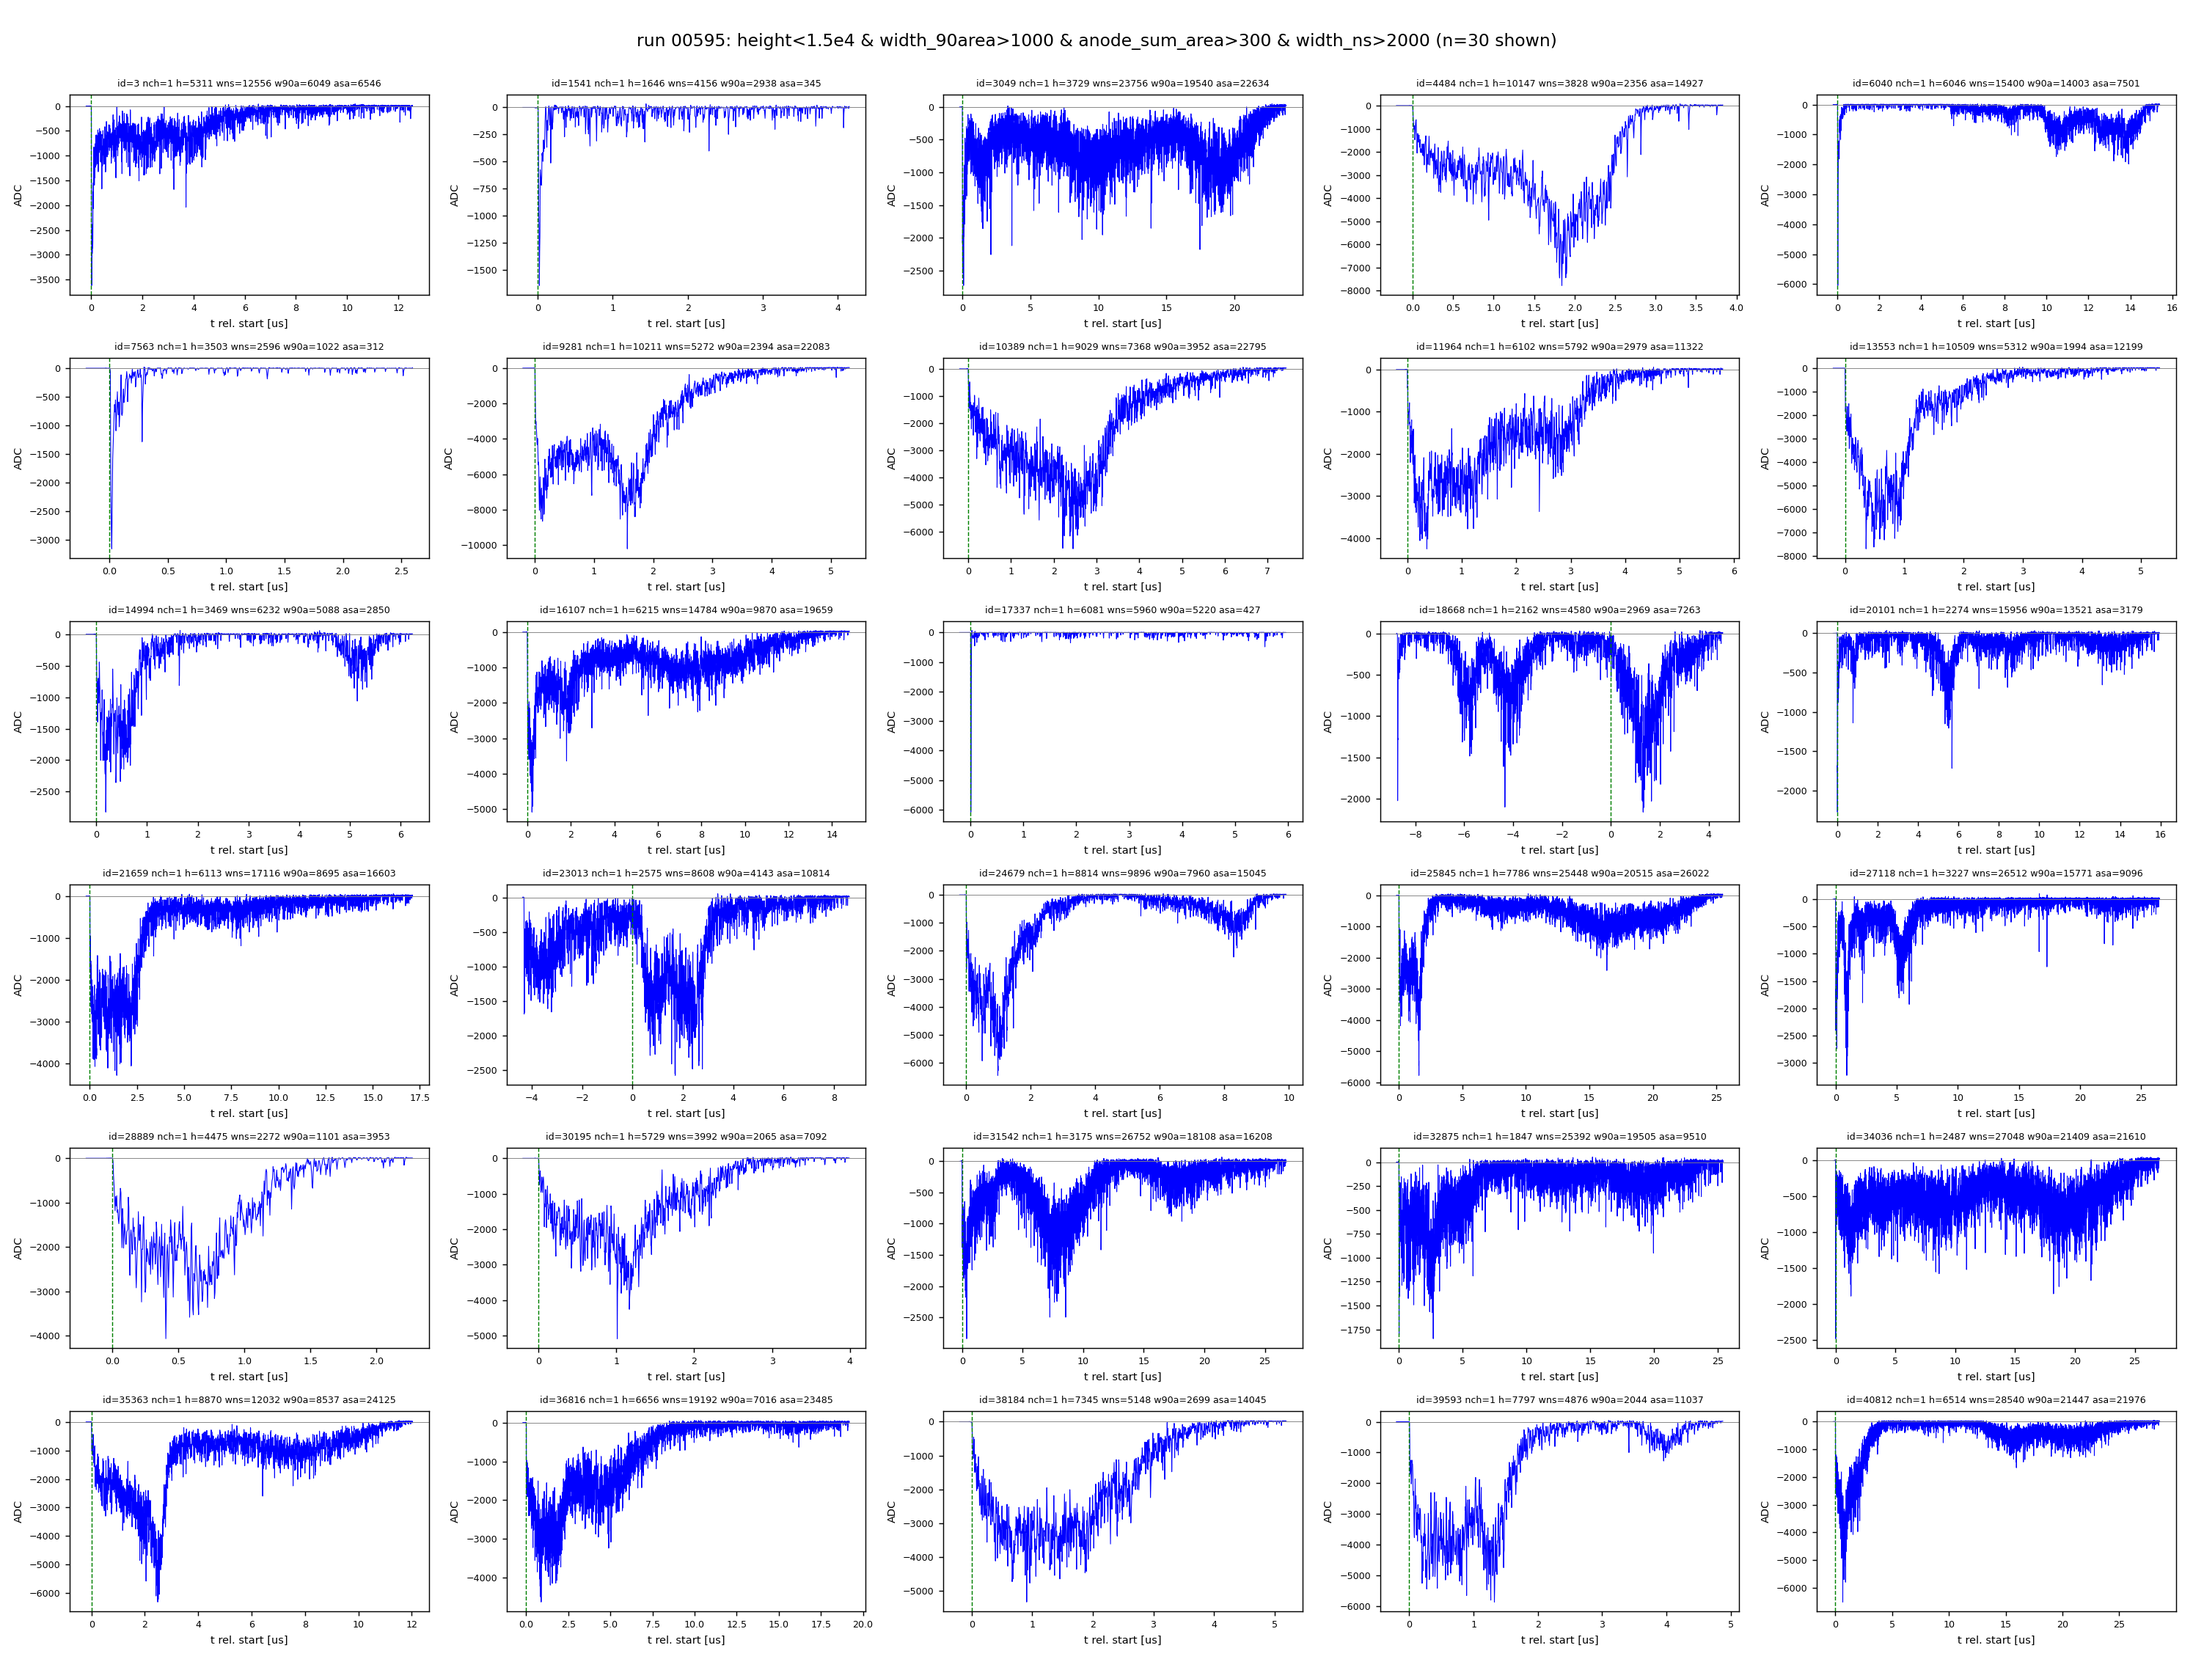
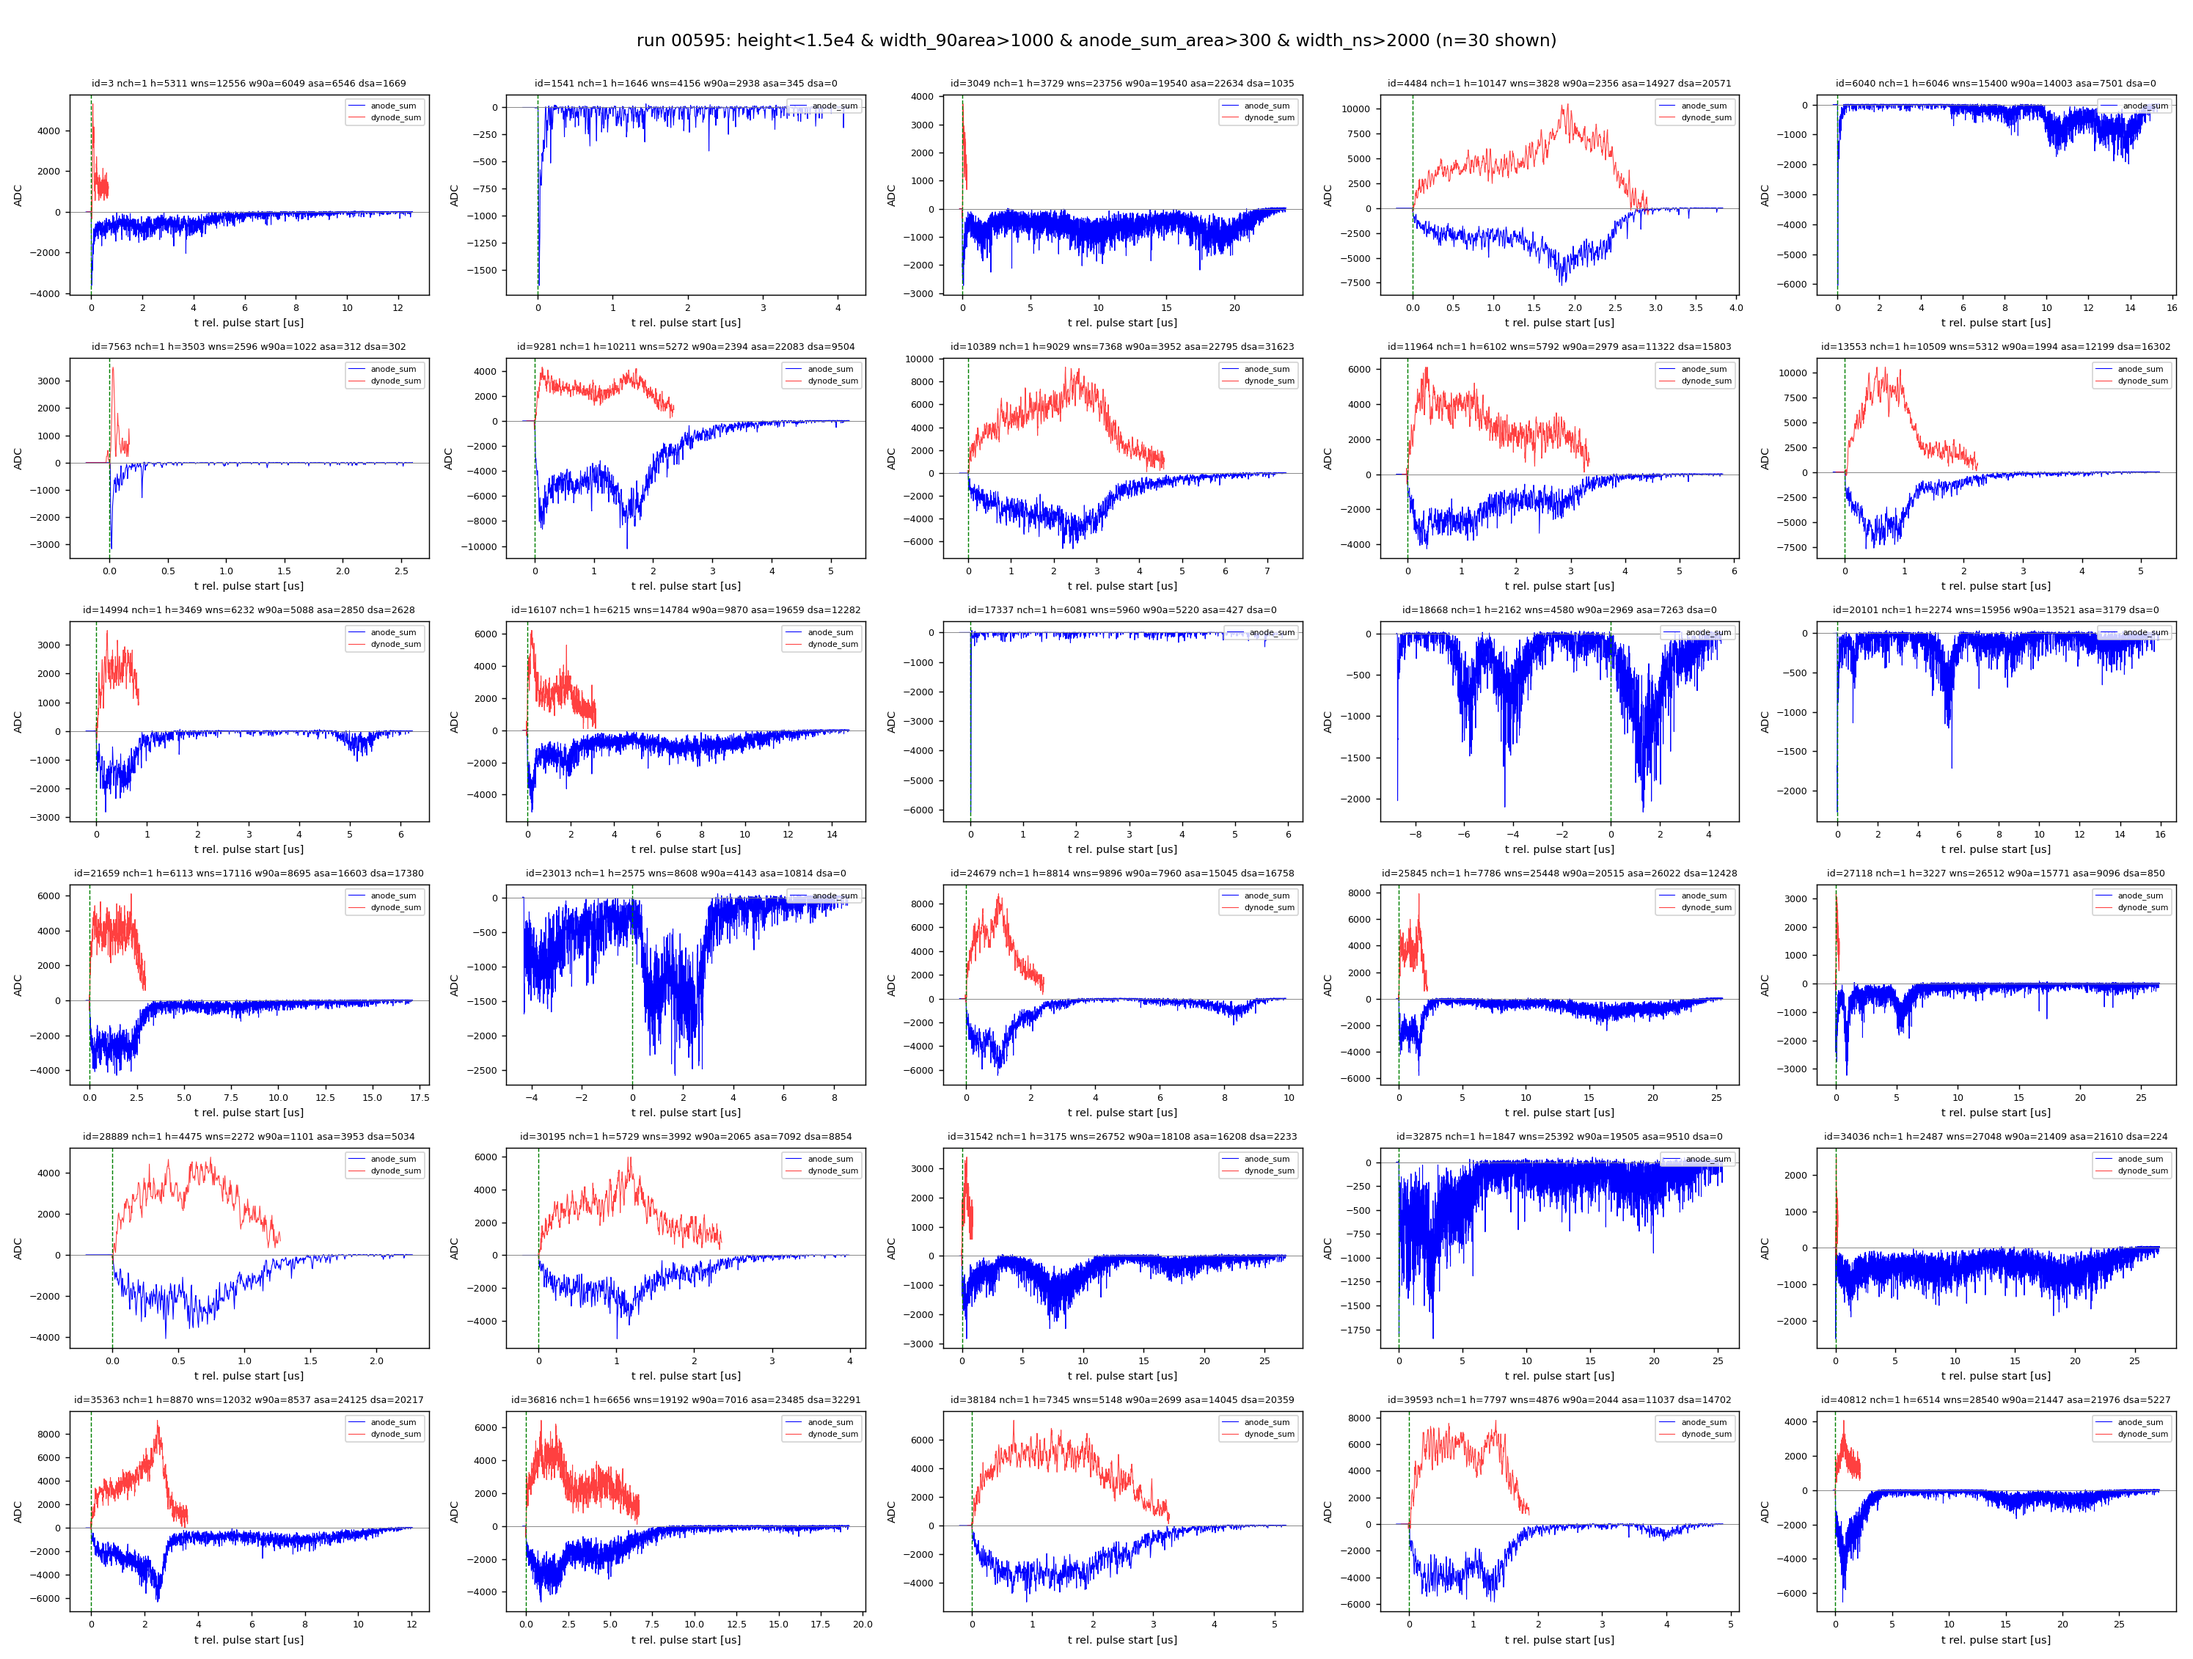
S2 examples: overlay dynode_sum (aligned at its own pulse start) for comparison

diff --git a/scripts/plot_s2_lowheight_examples.py b/scripts/plot_s2_lowheight_examples.py
@@ -57,16 +57,20 @@ for ax, (pk, pf) in zip(axes, rows):
     a_st = b["anode"][0] if "anode" in b else 0
     t = (np.arange(len(s)) - a_st) * 4 / 1000.0
     ax.plot(t, s, "b-", lw=0.6, label="anode_sum")
-    if pf.dynode_sum is not None and len(pf.dynode_sum) == len(s):
-        ax.plot(t, pf.dynode_sum, "r-", lw=0.5, alpha=0.6, label="dynode_sum")
+    if pf.dynode_sum is not None:
+        d = np.asarray(pf.dynode_sum, dtype=float)
+        d_st = b["dynode"][0] if "dynode" in b else 0
+        ax.plot((np.arange(len(d)) - d_st) * 4 / 1000.0, d, "r-", lw=0.6,
+                alpha=0.75, label="dynode_sum")
     ax.axvline(0, color="g", ls="--", lw=0.8)
     ax.axhline(0, color="gray", lw=0.5)
     ax.set_title(f"id={pk.peaks_id} nch={len(pk.anode_records)} h={pf.height:.0f} "
                  f"wns={pf.width_ns:.0f} w90a={pf.width_90area:.0f} "
-                 f"asa={pf.anode_sum_area:.0f}", fontsize=7)
+                 f"asa={pf.anode_sum_area:.0f} dsa={pf.dynode_sum_area:.0f}", fontsize=7)
     ax.tick_params(labelsize=7)
-    ax.set_xlabel("t rel. start [us]", fontsize=8)
+    ax.set_xlabel("t rel. pulse start [us]", fontsize=8)
     ax.set_ylabel("ADC", fontsize=8)
+    ax.legend(fontsize=6, loc="upper right")
 for ax in axes[len(rows):]:
     ax.axis("off")
 fig.suptitle(f"run {RUN}: height<1.5e4 & width_90area>1000 & anode_sum_area>300 "
